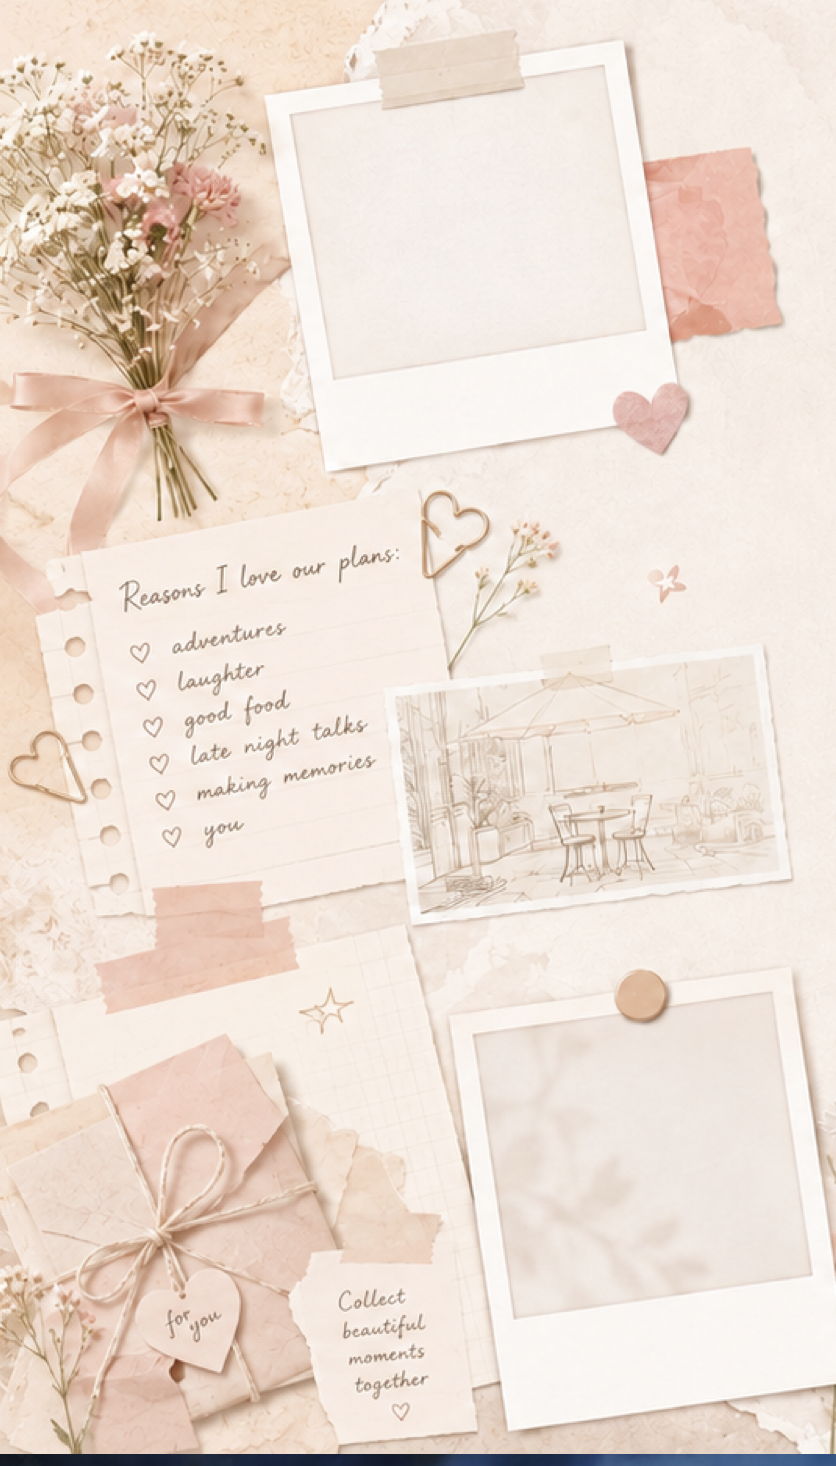
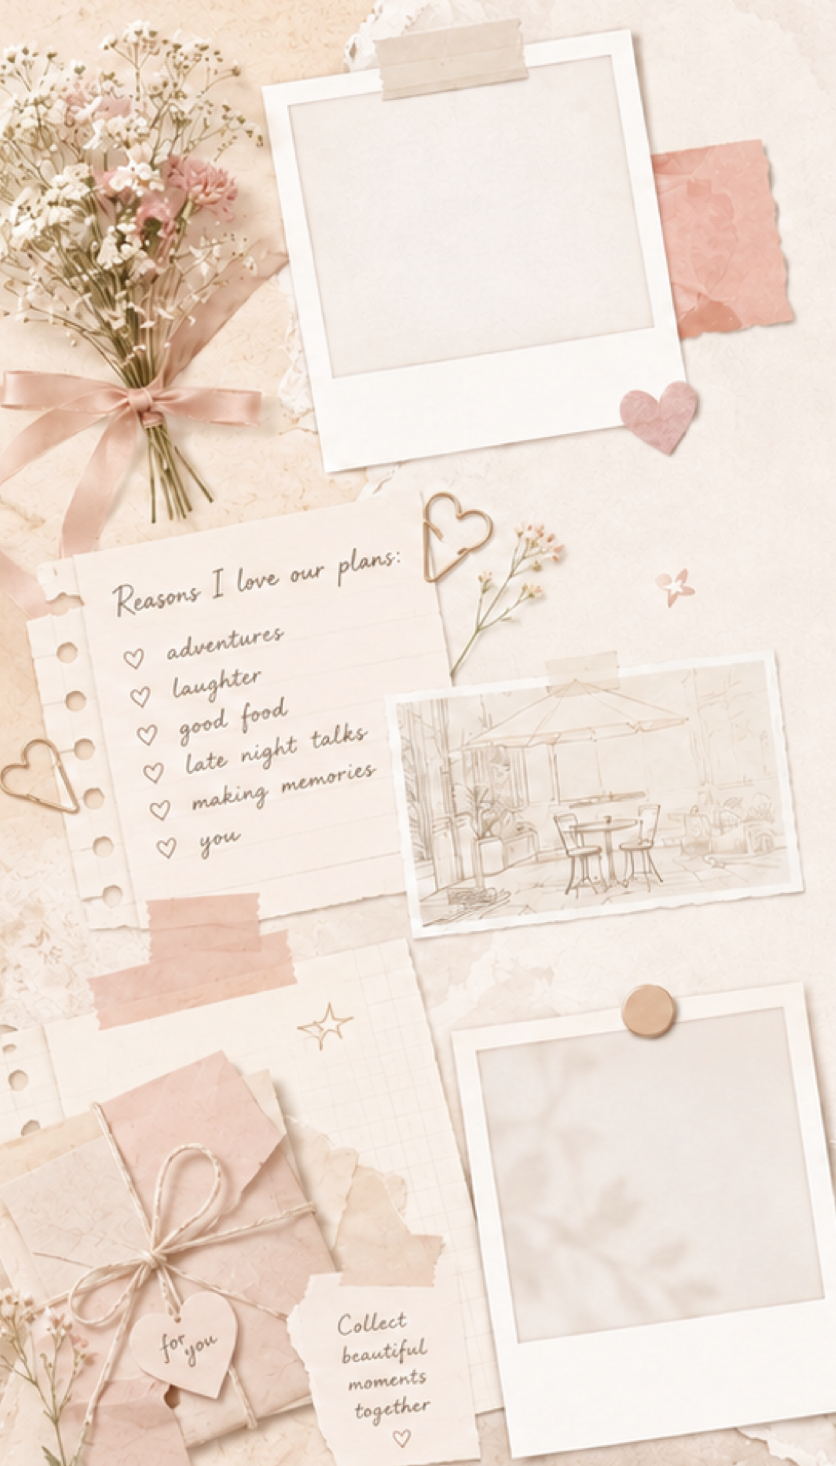
feat: add Web Push notifications for new letters
Backend:
- PushSubscription model + migration 011
- /push/subscribe, /push/unsubscribe, /push/vapid-public-key endpoints
- push_service.py sends to all subscriptions, auto-cleans expired ones
- letters router triggers push on new letter creation
- VAPID config (VAPID_PUBLIC_KEY, VAPID_PRIVATE_KEY, VAPID_CLAIMS_EMAIL)
- pywebpush added to requirements

Frontend:
- sw.js handles push events and notificationclick to open app
- usePushNotifications hook manages subscription lifecycle
- Navbar shows 🔔/🔕 button to toggle notifications

diff --git a/frontend/src/hooks/usePushNotifications.js b/frontend/src/hooks/usePushNotifications.js
@@ -1,0 +1,54 @@
+import { useEffect, useState } from 'react';
+import { getVapidPublicKey, subscribePush, unsubscribePush } from '../api/push';
+
+function urlBase64ToUint8Array(base64String) {
+  const padding = '='.repeat((4 - (base64String.length % 4)) % 4);
+  const base64 = (base64String + padding).replace(/-/g, '+').replace(/_/g, '/');
+  const raw = atob(base64);
+  return Uint8Array.from([...raw].map((c) => c.charCodeAt(0)));
+}
+
+export function usePushNotifications() {
+  const [permission, setPermission] = useState(Notification.permission);
+  const [subscribed, setSubscribed] = useState(false);
+
+  // Check current subscription state on mount
+  useEffect(() => {
+    if (!('serviceWorker' in navigator) || !('PushManager' in window)) return;
+    navigator.serviceWorker.ready.then((reg) => {
+      reg.pushManager.getSubscription().then((sub) => {
+        setSubscribed(!!sub);
+      });
+    });
+  }, []);
+
+  const subscribe = async () => {
+    if (!('serviceWorker' in navigator) || !('PushManager' in window)) return;
+
+    const perm = await Notification.requestPermission();
+    setPermission(perm);
+    if (perm !== 'granted') return;
+
+    const reg = await navigator.serviceWorker.ready;
+    const publicKey = await getVapidPublicKey();
+    const sub = await reg.pushManager.subscribe({
+      userVisibleOnly: true,
+      applicationServerKey: urlBase64ToUint8Array(publicKey),
+    });
+    await subscribePush(sub);
+    setSubscribed(true);
+  };
+
+  const unsubscribe = async () => {
+    const reg = await navigator.serviceWorker.ready;
+    const sub = await reg.pushManager.getSubscription();
+    if (!sub) return;
+    await unsubscribePush(sub);
+    await sub.unsubscribe();
+    setSubscribed(false);
+  };
+
+  const supported = 'serviceWorker' in navigator && 'PushManager' in window;
+
+  return { supported, permission, subscribed, subscribe, unsubscribe };
+}

diff --git a/frontend/src/components/layout/Navbar.jsx b/frontend/src/components/layout/Navbar.jsx
@@ -1,6 +1,7 @@
 import { useState } from 'react';
 import { NavLink, Link } from 'react-router-dom';
 import { useAuth } from '../../context/AuthContext';
+import { usePushNotifications } from '../../hooks/usePushNotifications';
 import '../../styles/navbar.css';
 
 const links = [
@@ -16,6 +17,7 @@ const links = [
 export default function Navbar() {
   const { logout } = useAuth();
   const [confirming, setConfirming] = useState(false);
+  const { supported, permission, subscribed, subscribe, unsubscribe } = usePushNotifications();
 
   return (
     <>
@@ -40,6 +42,20 @@ export default function Navbar() {
               </NavLink>
             </li>
           ))}
+
+          {/* Notificaciones */}
+          {supported && permission !== 'denied' && (
+            <li>
+              <button
+                className="navbar__logout"
+                onClick={subscribed ? unsubscribe : subscribe}
+                title={subscribed ? 'Desactivar notificaciones' : 'Activar notificaciones'}
+              >
+                <span className="navbar__link-icon">{subscribed ? '🔔' : '🔕'}</span>
+                <span>{subscribed ? 'Notif.' : 'Notif.'}</span>
+              </button>
+            </li>
+          )}
 
           {/* Cerrar sesión */}
           <li>

diff --git a/frontend/public/sw.js b/frontend/public/sw.js
@@ -1,5 +1,31 @@
-// Service Worker mínimo — necesario para que la PWA sea instalable
-// y para que el Share Target API funcione.
+// Service Worker — PWA + Web Push
 self.addEventListener('install', () => self.skipWaiting());
 self.addEventListener('activate', (e) => e.waitUntil(self.clients.claim()));
 self.addEventListener('fetch', (e) => e.respondWith(fetch(e.request)));
+
+// Recibir notificación push
+self.addEventListener('push', (e) => {
+  if (!e.data) return;
+  const { title, body, url } = e.data.json();
+  e.waitUntil(
+    self.registration.showNotification(title, {
+      body,
+      icon: '/icons/icono-app.png',
+      badge: '/icons/icono-app.png',
+      data: { url },
+    })
+  );
+});
+
+// Click en la notificación → abrir la app en la URL indicada
+self.addEventListener('notificationclick', (e) => {
+  e.notification.close();
+  e.waitUntil(
+    clients.matchAll({ type: 'window', includeUncontrolled: true }).then((list) => {
+      const target = e.notification.data?.url || '/';
+      const existing = list.find((c) => c.url.includes(self.location.origin));
+      if (existing) return existing.focus().then((c) => c.navigate(target));
+      return clients.openWindow(target);
+    })
+  );
+});

diff --git a/frontend/src/api/push.js b/frontend/src/api/push.js
@@ -1,0 +1,35 @@
+const API_BASE = import.meta.env.VITE_API_URL || '';
+
+export async function getVapidPublicKey() {
+  const res = await fetch(`${API_BASE}/push/vapid-public-key`, { credentials: 'include' });
+  const data = await res.json();
+  return data.publicKey;
+}
+
+export async function subscribePush(subscription) {
+  const keys = subscription.toJSON().keys;
+  await fetch(`${API_BASE}/push/subscribe`, {
+    method: 'POST',
+    credentials: 'include',
+    headers: { 'Content-Type': 'application/json' },
+    body: JSON.stringify({
+      endpoint: subscription.endpoint,
+      p256dh: keys.p256dh,
+      auth: keys.auth,
+    }),
+  });
+}
+
+export async function unsubscribePush(subscription) {
+  const keys = subscription.toJSON().keys;
+  await fetch(`${API_BASE}/push/unsubscribe`, {
+    method: 'POST',
+    credentials: 'include',
+    headers: { 'Content-Type': 'application/json' },
+    body: JSON.stringify({
+      endpoint: subscription.endpoint,
+      p256dh: keys.p256dh,
+      auth: keys.auth,
+    }),
+  });
+}

diff --git a/backend/app/services/push_service.py b/backend/app/services/push_service.py
@@ -1,0 +1,47 @@
+"""
+Servicio de Web Push Notifications usando VAPID.
+Envía notificaciones a todas las suscripciones guardadas.
+"""
+import json
+import logging
+from pywebpush import webpush, WebPushException
+from sqlalchemy.orm import Session
+
+from app.config import settings
+from app.models.push_subscription import PushSubscription
+
+logger = logging.getLogger(__name__)
+
+
+def send_push_to_all(db: Session, title: str, body: str, url: str = "/") -> None:
+    """Envía una notificación push a todas las suscripciones registradas."""
+    if not settings.VAPID_PRIVATE_KEY or not settings.VAPID_CLAIMS_EMAIL:
+        return
+
+    subscriptions = db.query(PushSubscription).all()
+    dead = []
+
+    for sub in subscriptions:
+        try:
+            webpush(
+                subscription_info={
+                    "endpoint": sub.endpoint,
+                    "keys": {"p256dh": sub.p256dh, "auth": sub.auth},
+                },
+                data=json.dumps({"title": title, "body": body, "url": url}),
+                vapid_private_key=settings.VAPID_PRIVATE_KEY,
+                vapid_claims={"sub": f"mailto:{settings.VAPID_CLAIMS_EMAIL}"},
+            )
+        except WebPushException as e:
+            status = e.response.status_code if e.response is not None else None
+            if status in (404, 410):
+                # Suscripción expirada o inválida — eliminar
+                dead.append(sub.id)
+            else:
+                logger.warning("Push error (endpoint=%s): %s", sub.endpoint[:40], e)
+
+    if dead:
+        db.query(PushSubscription).filter(PushSubscription.id.in_(dead)).delete(
+            synchronize_session=False
+        )
+        db.commit()

diff --git a/backend/app/routers/push.py b/backend/app/routers/push.py
@@ -1,0 +1,39 @@
+from fastapi import APIRouter, Depends, HTTPException
+from sqlalchemy.orm import Session
+from pydantic import BaseModel
+
+from app.database import get_db
+from app.dependencies import get_current_user
+from app.models.push_subscription import PushSubscription
+from app.config import settings
+
+router = APIRouter(prefix="/push", tags=["Push"])
+
+
+class SubscribeRequest(BaseModel):
+    endpoint: str
+    p256dh: str
+    auth: str
+
+
+@router.get("/vapid-public-key")
+def get_vapid_public_key():
+    return {"publicKey": settings.VAPID_PUBLIC_KEY}
+
+
+@router.post("/subscribe", status_code=201)
+def subscribe(req: SubscribeRequest, db: Session = Depends(get_db), _: bool = Depends(get_current_user)):
+    existing = db.query(PushSubscription).filter_by(endpoint=req.endpoint).first()
+    if existing:
+        return {"status": "already_subscribed"}
+    sub = PushSubscription(endpoint=req.endpoint, p256dh=req.p256dh, auth=req.auth)
+    db.add(sub)
+    db.commit()
+    return {"status": "subscribed"}
+
+
+@router.post("/unsubscribe")
+def unsubscribe(req: SubscribeRequest, db: Session = Depends(get_db), _: bool = Depends(get_current_user)):
+    db.query(PushSubscription).filter_by(endpoint=req.endpoint).delete()
+    db.commit()
+    return {"status": "unsubscribed"}

diff --git a/backend/alembic/versions/011_add_push_subscriptions.py b/backend/alembic/versions/011_add_push_subscriptions.py
@@ -1,0 +1,30 @@
+"""add push_subscriptions table
+
+Revision ID: 011
+Revises: 010
+Create Date: 2026-05-17
+"""
+from alembic import op
+import sqlalchemy as sa
+
+revision = "011"
+down_revision = "010"
+branch_labels = None
+depends_on = None
+
+
+def upgrade() -> None:
+    op.create_table(
+        "push_subscriptions",
+        sa.Column("id", sa.Integer(), nullable=False, autoincrement=True),
+        sa.Column("endpoint", sa.String(500), nullable=False),
+        sa.Column("p256dh", sa.String(200), nullable=False),
+        sa.Column("auth", sa.String(100), nullable=False),
+        sa.Column("created_at", sa.DateTime(), nullable=True),
+        sa.PrimaryKeyConstraint("id"),
+        sa.UniqueConstraint("endpoint"),
+    )
+
+
+def downgrade() -> None:
+    op.drop_table("push_subscriptions")

diff --git a/backend/app/main.py b/backend/app/main.py
@@ -2,7 +2,7 @@ from fastapi import FastAPI
 from fastapi.middleware.cors import CORSMiddleware
 
 from app.config import settings
-from app.routers import auth, places_visited, places_wishlist, photos, letters, search, map, recipes, cine, recommendations
+from app.routers import auth, places_visited, places_wishlist, photos, letters, search, map, recipes, cine, recommendations, push
 
 app = FastAPI(
     title="Nuestro Mapita API",
@@ -31,6 +31,7 @@ app.include_router(letters.router)
 app.include_router(recipes.router)
 app.include_router(cine.router)
 app.include_router(recommendations.router)
+app.include_router(push.router)
 app.include_router(search.router)
 app.include_router(map.router)
 

diff --git a/backend/app/models/__init__.py b/backend/app/models/__init__.py
@@ -6,5 +6,6 @@ from app.models.letter import Letter
 from app.models.recipe import Recipe, RecipeComment
 from app.models.cine import CineItem, CineComment
 from app.models.recommendation import RecommendationHistory, BlockedRecommendation
+from app.models.push_subscription import PushSubscription
 
-__all__ = ["PlaceVisited", "Photo", "PlaceWishlist", "Letter", "Recipe", "RecipeComment", "CineItem", "CineComment", "RecommendationHistory", "BlockedRecommendation"]
+__all__ = ["PlaceVisited", "Photo", "PlaceWishlist", "Letter", "Recipe", "RecipeComment", "CineItem", "CineComment", "RecommendationHistory", "BlockedRecommendation", "PushSubscription"]

diff --git a/backend/app/routers/letters.py b/backend/app/routers/letters.py
@@ -8,6 +8,7 @@ from app.models.letter import Letter
 from app.schemas.letter import LetterCreate, LetterUpdate, LetterResponse
 from app.services.cloudinary_service import upload_image, delete_image
 from app.services.upload_validation import read_valid_image_upload
+from app.services.push_service import send_push_to_all
 
 router = APIRouter(prefix="/letters", tags=["Cartitas"])
 
@@ -30,6 +31,7 @@ def create_letter(
     db.add(letter)
     db.commit()
     db.refresh(letter)
+    send_push_to_all(db, title="💌 Nueva cartita", body=letter.title, url="/cartitas")
     return letter
 
 

diff --git a/backend/app/models/push_subscription.py b/backend/app/models/push_subscription.py
@@ -1,0 +1,13 @@
+from datetime import datetime
+from sqlalchemy import Column, Integer, String, DateTime
+from app.database import Base
+
+
+class PushSubscription(Base):
+    __tablename__ = "push_subscriptions"
+
+    id = Column(Integer, primary_key=True, autoincrement=True)
+    endpoint = Column(String(500), unique=True, nullable=False)
+    p256dh = Column(String(200), nullable=False)
+    auth = Column(String(100), nullable=False)
+    created_at = Column(DateTime, default=datetime.utcnow)

diff --git a/backend/app/config.py b/backend/app/config.py
@@ -34,6 +34,11 @@ class Settings(BaseSettings):
     # Obtener clave en: https://platform.openai.com/api-keys
     OPENAI_API_KEY: str = ""
 
+    # Web Push (VAPID) — para notificaciones push
+    VAPID_PUBLIC_KEY: str = ""
+    VAPID_PRIVATE_KEY: str = ""
+    VAPID_CLAIMS_EMAIL: str = ""
+
     # Cloudinary
     CLOUDINARY_CLOUD_NAME: str = ""
     CLOUDINARY_API_KEY: str = ""
